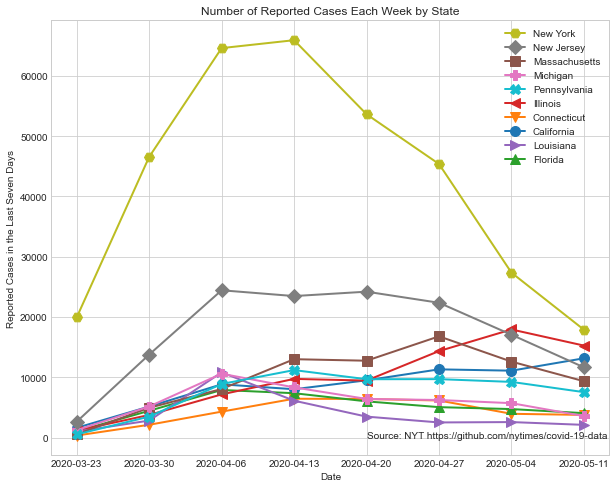
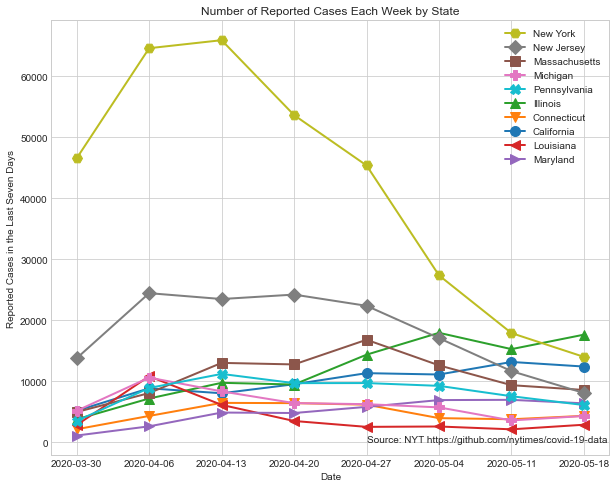
update with 5/18 data

diff --git a/covid.py b/covid.py
@@ -106,7 +106,7 @@ def plot_over_time(
     new_patches = []
     for g in geo_list:
         new_patches.append(patches_dict[g])
-    ax.legend(new_patches, geo_list, loc="best")
+    ax.legend(new_patches, geo_list, loc="upper right")
     ax.set_xlabel("Date")
     ax.set_ylabel(f"Reported {stat.title()} in the Last Seven Days")
 

diff --git a/README.md b/README.md
@@ -1,6 +1,6 @@
 # Coronavirus in the U.S.
 
-Updated with 5/11 data
+Updated with 5/18 data
 
 ## Counties with the most deaths
 
